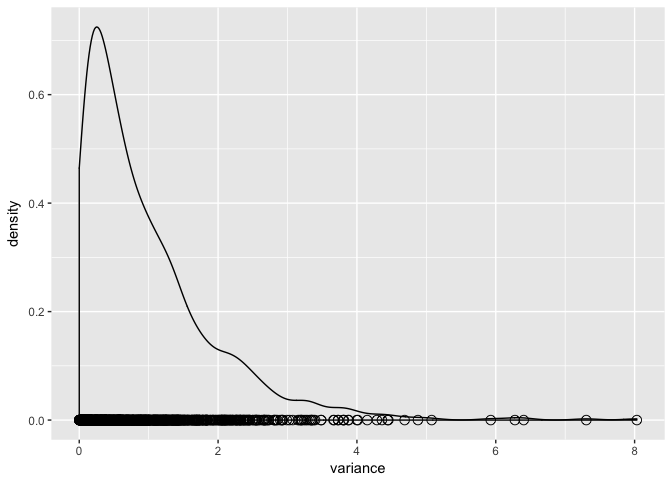
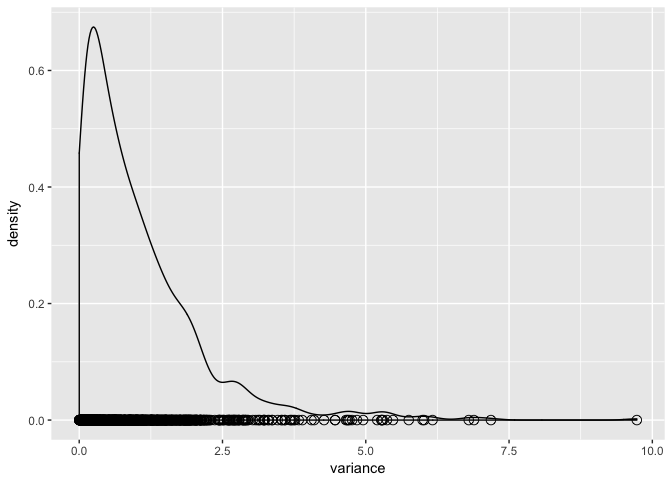
try #2 to update link in seminar 4
helps to knit the Rmd file first!

diff --git a/seminars/seminars_winter_2017/seminar4/sm4_differential_expression_analysis.md b/seminars/seminars_winter_2017/seminar4/sm4_differential_expression_analysis.md
@@ -86,7 +86,7 @@ In this seminar, we will use the GSE4051 dataset. See [here](https://www.ncbi.nl
 
 ### Import data
 
-First we import the dataset. With most gene expression datasets, there will be two components that generally come in two different files.
+First we import the dataset. The file is located [here](https://github.com/STAT540-UBC/STAT540-UBC.github.io/tree/master/seminars/seminars_winter_2017/seminar4/expression_data). With most gene expression datasets, there will be two components that generally come in two different files.
 
 The first is the **expression matrix**, containing the sample IDs and their corresponding gene expression profiles. Essentially, each column is a different sample (a tissue, under some treatment, during some developmental stage, etc) and each row is a gene (or a probe). The expression values for all of the genes in a single column collectively constitute the gene expression profile of the sample represented by that column.
 
@@ -637,13 +637,13 @@ simulatedGeneExpressionMatrix <- matrix(rnorm(numberOfGenes * numberOfSamples), 
 simulatedGeneExpressionMatrix %>% head()
 ```
 
-    ##              [,1]       [,2]        [,3]
-    ## [1,] -0.437949093 -0.1524744 -0.82718398
-    ## [2,] -0.008697243  0.4646872  1.62423621
-    ## [3,]  0.947258639  1.2634303  0.58615183
-    ## [4,] -0.797052525  0.3367232 -0.04420185
-    ## [5,]  0.235076399 -0.6855416  0.64608293
-    ## [6,]  0.379258678 -0.6233407 -0.33590871
+    ##            [,1]       [,2]         [,3]
+    ## [1,]  0.3652621 -0.4898400  0.324958390
+    ## [2,] -1.7176540  0.3261726  0.489372624
+    ## [3,]  1.0700617  0.3438700 -1.101629779
+    ## [4,]  0.1890152 -0.2988744  0.008968923
+    ## [5,] -1.8159556  1.0520086 -1.099587764
+    ## [6,]  1.2171167  0.2051624  0.813084345
 
 ``` r
 geneVars <- simulatedGeneExpressionMatrix %>% apply(1, var) # work out the variance for each gene
